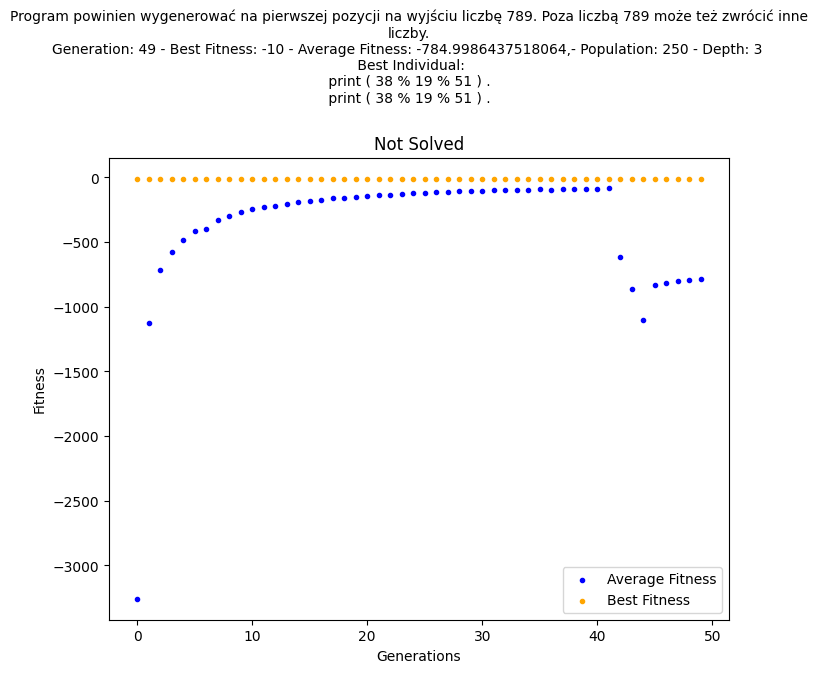
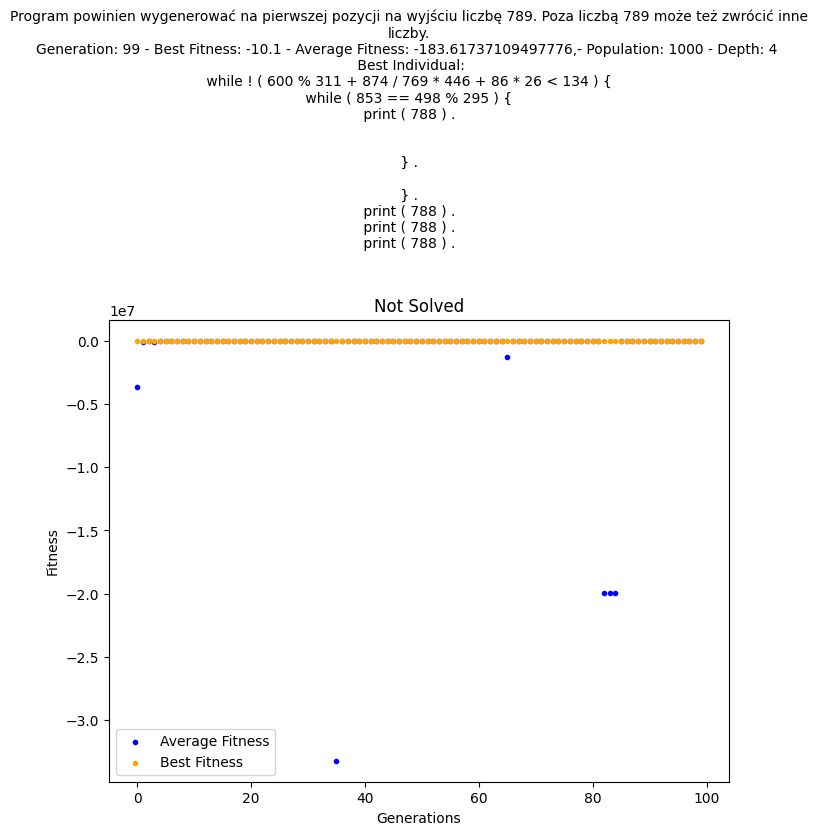
funcion change

diff --git a/testing.py b/testing.py
@@ -97,7 +97,10 @@ def fitness_function_5(program):
         if output[0] == 789:
             return 0
         else:
-            return -10 * (abs(min(output)) + 1)
+            if len(output) == 0:
+                return -10000
+            else:
+                return -10 * (abs(output[0] - 789) / 100 + 1)
     except Exception as e:
         # print(e)
         return -1000
@@ -156,11 +159,11 @@ if __name__ == '__main__':
     #                       "liczbę 1. Poza liczbą 1 może też zwrócić inne liczby.", "1.1.A")
     #test(fitness_function_2, "Program powinien wygenerować na wyjściu (na dowolnej pozycji w danych wyjściowych) "
     #                         "liczbę 789. Poza liczbą 789 może też zwrócić inne liczby.", "1.1.B")
-    test(fitness_function_3, "Program powinien wygenerować na wyjściu (na dowolnej pozycji w danych wyjściowych) "
-                             "liczbę 31415. Poza liczbą 31415 może też zwrócić inne liczby.", "1.1.C")
+    #test(fitness_function_3, "Program powinien wygenerować na wyjściu (na dowolnej pozycji w danych wyjściowych) "
+    #                         "liczbę 31415. Poza liczbą 31415 może też zwrócić inne liczby.", "1.1.C")
     #test(fitness_function_4, "Program powinien wygenerować na pierwszej pozycji na wyjściu liczbę 1. "
     #                         "Poza liczbą 1 może też zwrócić inne liczby.", "1.1.D")
-    #test(fitness_function_5, "Program powinien wygenerować na pierwszej pozycji na wyjściu liczbę 789. "
-    #                         "Poza liczbą 789 może też zwrócić inne liczby.", "1.1.E")
+    test(fitness_function_5, "Program powinien wygenerować na pierwszej pozycji na wyjściu liczbę 789. "
+                             "Poza liczbą 789 może też zwrócić inne liczby.", "1.1.E")
     #test(fitness_function_6, "Program powinien wygenerować na wyjściu liczbę jako jedyną liczbę 1. "
     #                         "Poza liczbą 1 NIE powinien nic więcej wygenerować.", "1.1.F")

diff --git a/gp/BiggerGP.py b/gp/BiggerGP.py
@@ -162,7 +162,7 @@ class BiggerGP:
         for i in range(len(buffer)):  # choose some ints
             if buffer[i] == 2200:
                 index = len(self.int_literals) + 100000
-                self.int_literals[index] = random.randint(0, 100000)  # can be changed
+                self.int_literals[index] = random.randint(0, 1000)  # can be changed
                 buffer[i] = index
 
         self.to_string(buffer)
